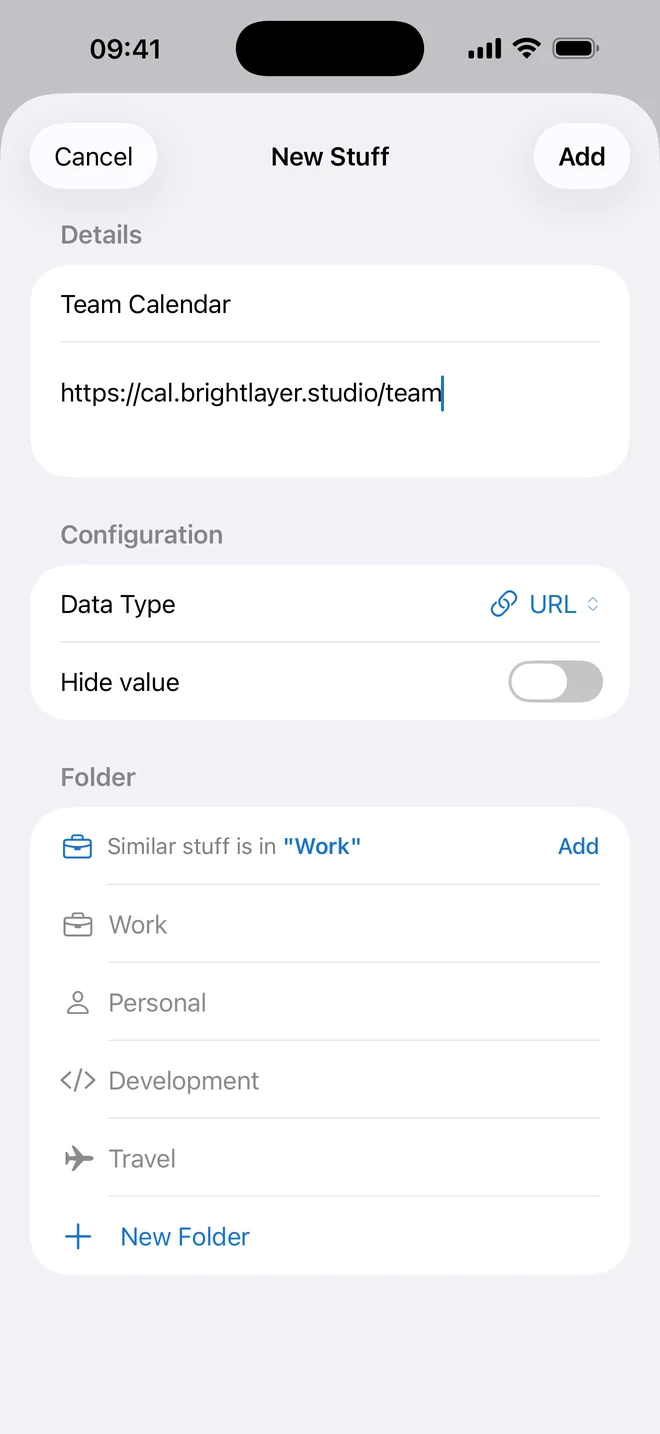
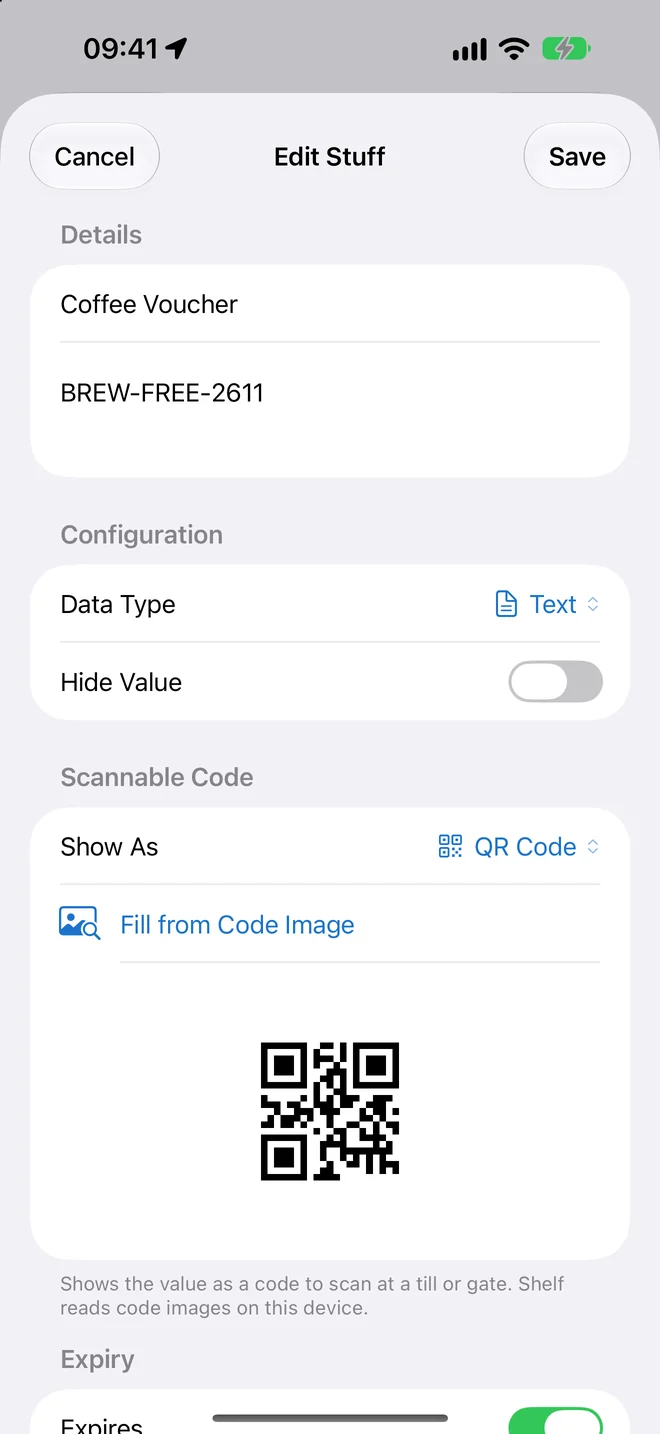
Shelf 1.1: the page shows codes to scan and Near Me in two new sections, Ready to Scan and Near You, When It Matters, with new screenshots of every device, the widget gallery's eight examples and a new home card, its What's new entry, and the Apps page's intro, pitch and features brought up to date

diff --git a/src/data/apps.js b/src/data/apps.js
@@ -95,7 +95,7 @@ export const apps = [
         title: 'Shelf',
         iconUrl: 'img/apple/shelf/Shelf_light.webp',
         label: 'Quick copy vault',
-        pitch: 'The codes, addresses and snippets you keep retyping, encrypted on your device and one tap or one shortcut from your clipboard.',
+        pitch: 'The codes, passes, addresses and snippets you keep retyping or showing at the door, encrypted on your device and one tap or one shortcut away.',
         category: 'Productivity',
         url: '/shelf/',
         appStoreUrl: 'https://apps.apple.com/app/id6762406443',
@@ -107,7 +107,9 @@ export const apps = [
         layout: 'card',
         features: [
             'A tap on iPhone and iPad, a global shortcut on the Mac or a Home Screen widget, and a reader on Apple Watch',
-            'Paste anything and Shelf recognises it, so you can call the number, write the email or open the address in Maps',
+            'Vouchers, passes and tickets as QR codes or barcodes, ready to scan at the till or the gate',
+            'The stuff near you comes first, and an arrival reminder shows the door code when you get there',
+            'Paste anything and Shelf recognises it, so you can call the number, write the email or open the address in your map app',
             'Hidden values stay masked until you peek and clear from the clipboard 60 seconds after a copy',
             'Encrypted with AES-256-GCM on your device before it syncs through your own iCloud',
         ],

diff --git a/src/pages/index.js b/src/pages/index.js
@@ -108,6 +108,13 @@ const newsletter = {
    production build does not, so the link would 404 on the live site. */
 const whatsNew = [
     {
+        date: '2026-11-17',
+        kind: 'App',
+        title: 'Shelf 1.1',
+        url: '/shelf/',
+        description: 'The small things you keep retyping, encrypted on your device and one tap from your clipboard. New: vouchers, passes and tickets as codes to scan, a last day with a reminder, places that put the stuff near you first, and arrival reminders that show the door code, on iPhone, iPad, Mac and Apple Watch.',
+    },
+    {
         date: '2026-11-15',
         kind: 'App',
         title: 'SQL Studio 1.5',
